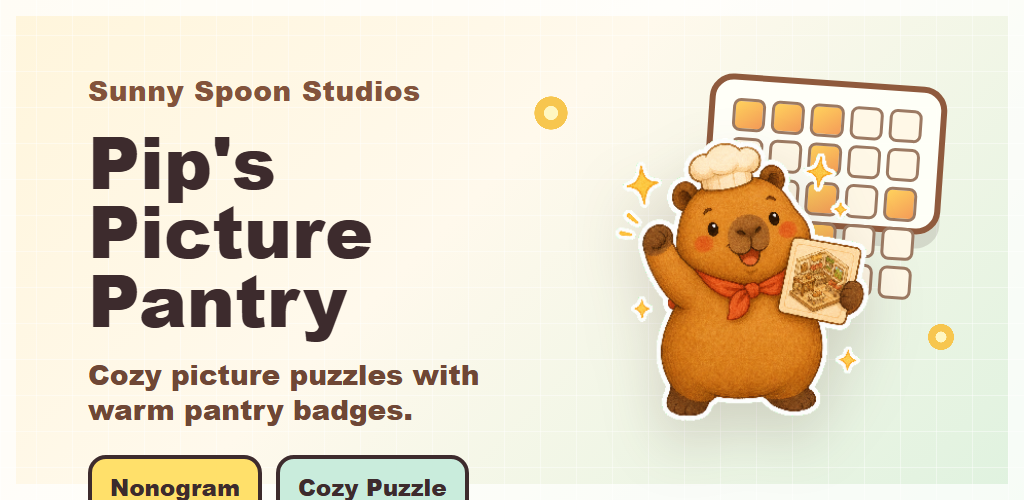
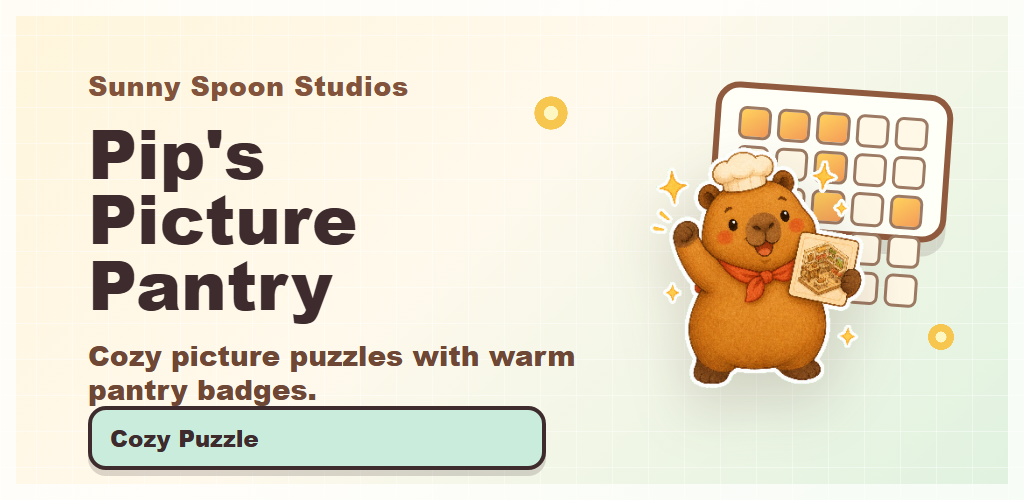
docs: fix Play Store feature graphic framing

Changed region(s): [[0.0625, 0.24, 0.5625, 1.0], [0.5938, 0.15, 0.9375, 0.84], [0.0625, 0.15, 0.4062, 0.21]]

diff --git a/store-assets/play-console/feature-graphic.html b/store-assets/play-console/feature-graphic.html
@@ -26,7 +26,7 @@
         position: relative;
         width: 1024px;
         height: 500px;
-        padding: 54px 72px;
+        padding: 50px 72px;
         border: 16px solid rgba(255, 255, 255, 0.72);
       }
 
@@ -39,24 +39,24 @@
       .studio {
         margin: 0 0 16px;
         color: #83533b;
-        font-size: 28px;
+        font-size: 27px;
         font-weight: 800;
         letter-spacing: 0.02em;
       }
 
       h1 {
         margin: 0;
-        font-size: 72px;
+        font-size: 68px;
         line-height: 0.96;
         font-weight: 900;
       }
 
       .tagline {
-        width: 480px;
-        margin: 24px 0 0;
+        width: 500px;
+        margin: 22px 0 0;
         color: #6f4735;
         font-size: 28px;
-        line-height: 1.24;
+        line-height: 1.22;
         font-weight: 800;
       }
 
@@ -82,16 +82,16 @@
 
       .pip {
         position: absolute;
-        right: 80px;
-        bottom: 14px;
-        width: 370px;
+        right: 92px;
+        bottom: 54px;
+        width: 315px;
         filter: drop-shadow(0 24px 28px rgba(80, 50, 32, 0.18));
       }
 
       .card {
         position: absolute;
-        right: 64px;
-        top: 64px;
+        right: 58px;
+        top: 72px;
         width: 238px;
         height: 148px;
         border: 6px solid #8f5a3d;
@@ -145,8 +145,6 @@
         <p class="studio">Sunny Spoon Studios</p>
         <h1>Pip's<br />Picture Pantry</h1>
         <p class="tagline">Cozy picture puzzles with warm pantry badges.</p>
-        <div class="pills">
-          <div class="pill">Nonogram</div>
           <div class="pill secondary">Cozy Puzzle</div>
         </div>
       </section>